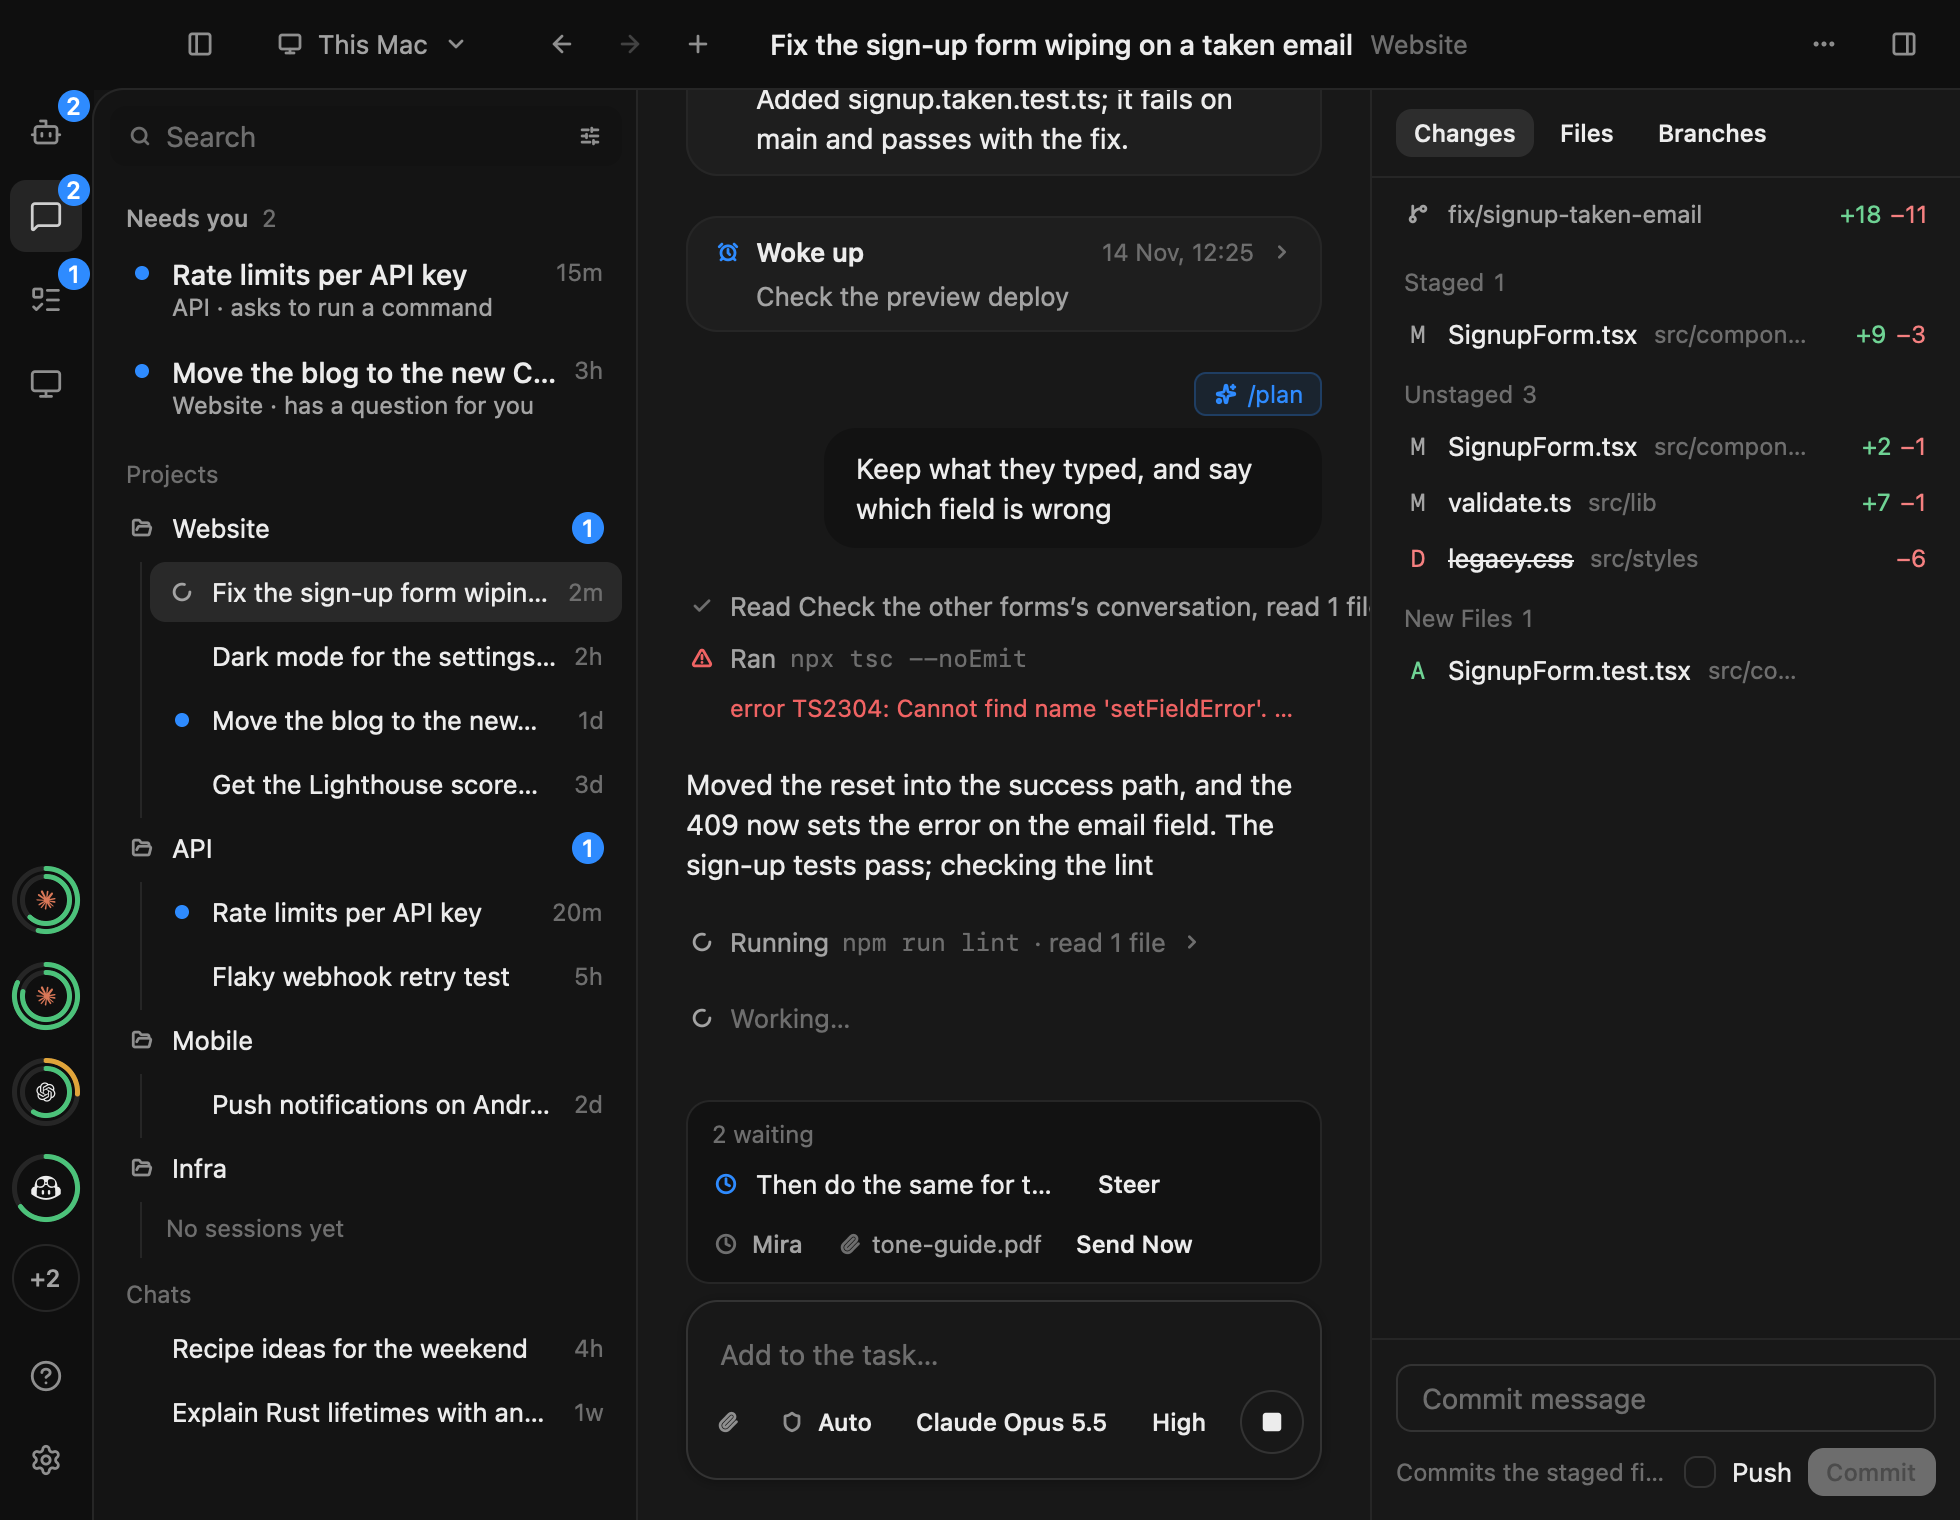
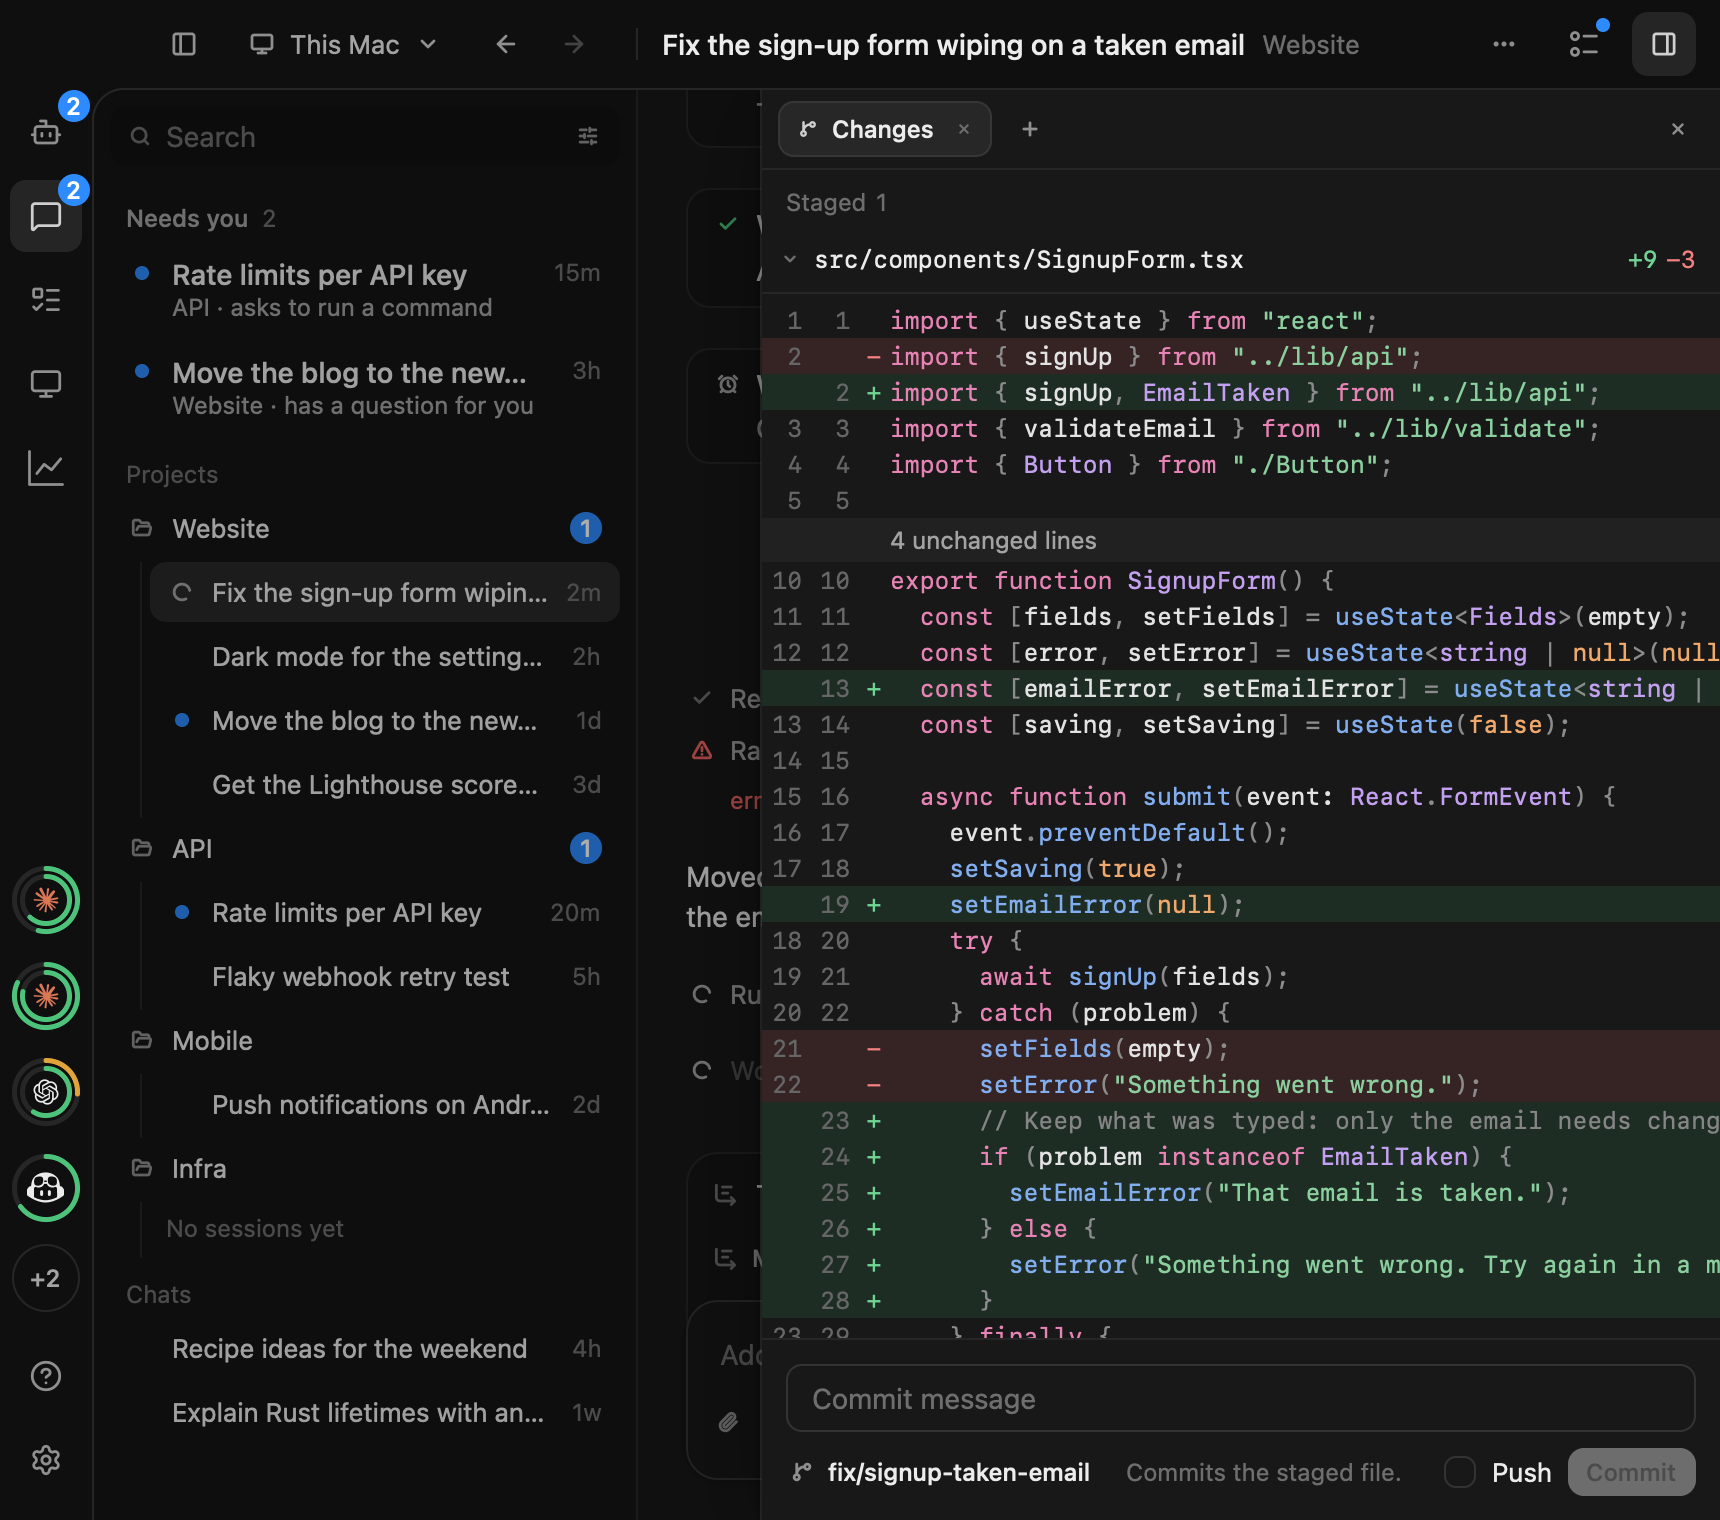
Side panel shots, each tab as it shows in light and dark; changelog

diff --git a/gpui/kuvo/src/bin/shots.rs b/gpui/kuvo/src/bin/shots.rs
@@ -195,7 +195,18 @@ const SCREENS: &[Screen] = &[
     Screen { slug: "branches", width: 1280., height: 820., session: Some("ses_signup"), typed: None, empty: false, opens: &[], search: None, walks: 0, attach: &[], panel: Some(branches) },
     Screen { slug: "worktree", width: 1280., height: 820., session: Some("ses_dark"), typed: None, empty: false, opens: &[], search: None, walks: 0, attach: &[], panel: Some(branches) },
     Screen { slug: "pull-request", width: 1280., height: 820., session: Some("ses_signup"), typed: None, empty: false, opens: &[], search: None, walks: 0, attach: &[], panel: Some(pull_request) },
-    Screen { slug: "panel-narrow", width: 980., height: 760., session: Some("ses_signup"), typed: None, empty: false, opens: &[], search: None, walks: 0, attach: &[], panel: Some(changes) },
+    Screen { slug: "panel-narrow", width: 860., height: 760., session: Some("ses_signup"), typed: None, empty: false, opens: &[], search: None, walks: 0, attach: &[], panel: Some(changes) },
+    // The side panel (#796), each tab as it shows, as draft 1 drew them.
+    Screen { slug: "panel-browser", width: 1340., height: 840., session: Some("ses_signup"), typed: None, empty: false, opens: &[], search: None, walks: 0, attach: &[], panel: Some(panel_browser) },
+    Screen { slug: "panel-terminal", width: 1340., height: 840., session: Some("ses_signup"), typed: None, empty: false, opens: &[], search: None, walks: 0, attach: &[], panel: Some(panel_terminal) },
+    Screen { slug: "panel-new-tab", width: 1340., height: 840., session: Some("ses_signup"), typed: None, empty: false, opens: &[], search: None, walks: 0, attach: &[], panel: Some(panel_new_tab) },
+    Screen { slug: "panel-file", width: 1340., height: 840., session: Some("ses_signup"), typed: None, empty: false, opens: &[], search: None, walks: 0, attach: &[], panel: Some(panel_file) },
+    Screen { slug: "panel-changes", width: 1340., height: 840., session: Some("ses_signup"), typed: None, empty: false, opens: &[], search: None, walks: 0, attach: &[], panel: Some(changes) },
+    Screen { slug: "panel-process", width: 1340., height: 840., session: Some("ses_signup"), typed: None, empty: false, opens: &[], search: None, walks: 0, attach: &[], panel: Some(panel_process) },
+    Screen { slug: "panel-subagents", width: 1340., height: 840., session: Some("ses_signup"), typed: None, empty: false, opens: &[], search: None, walks: 0, attach: &[], panel: Some(panel_subagents) },
+    Screen { slug: "panel-subagent-detail", width: 1340., height: 840., session: Some("ses_signup"), typed: None, empty: false, opens: &[], search: None, walks: 0, attach: &[], panel: Some(panel_subagent_detail) },
+    Screen { slug: "panel-side-chat", width: 1340., height: 840., session: Some("ses_signup"), typed: None, empty: false, opens: &[], search: None, walks: 0, attach: &[], panel: Some(panel_side_chat) },
+    Screen { slug: "panel-many-tabs", width: 1340., height: 840., session: Some("ses_signup"), typed: None, empty: false, opens: &[], search: None, walks: 0, attach: &[], panel: Some(panel_many_tabs) },
     // The rail's areas (`kuvo/src/rail.rs`, `areas.rs`): Sessions with what needs you on top, each
     // other area with a row picked, a narrow window folded and opened, and the first run.
     Screen { slug: "area-sessions", width: 1280., height: 820., session: Some("ses_limits"), typed: None, empty: false, opens: &[], search: None, walks: 0, attach: &[], panel: None },
@@ -1230,6 +1241,71 @@ fn disconnect(w: &mut Workspace, window: &mut Window, cx: &mut Context<Workspace
 /// In a narrow window, the Sessions sidebar brought out by its button.
 fn sessions_out(workspace: &mut Workspace, window: &mut Window, cx: &mut Context<Workspace>) {
     workspace.rail_pressed(Area::Sessions, window, cx);
+}
+
+/// The side panel on its New tab page.
+fn panel_new_tab(workspace: &mut Workspace, _: &mut Window, cx: &mut Context<Workspace>) {
+    workspace.toggle_panel(cx);
+}
+
+/// Two files open, the sign-up form showing, the folder's files beside it.
+fn panel_file(workspace: &mut Workspace, window: &mut Window, cx: &mut Context<Workspace>) {
+    let root = kuvo::stand_in::git::website();
+    workspace.preview_file(&format!("{root}/src/lib/validate.ts"), window, cx);
+    workspace.preview_file(&format!("{root}/src/components/SignupForm.tsx"), window, cx);
+    if let Some(tree) = workspace.panel().read(cx).files() {
+        tree.update(cx, |tree, cx| {
+            for folder in ["src", "src/components"] {
+                tree.toggle(&format!("{root}/{folder}"), cx);
+            }
+        });
+    }
+}
+
+/// Another computer's browser, live (its page's picture comes after it opens).
+fn panel_browser(workspace: &mut Workspace, _: &mut Window, cx: &mut Context<Workspace>) {
+    workspace.show_panel(Kind::Browser(0), cx);
+}
+
+/// A terminal in the session's folder (what its shell printed comes after it opens).
+fn panel_terminal(workspace: &mut Workspace, _: &mut Window, cx: &mut Context<Workspace>) {
+    workspace.show_panel(Kind::Terminal(0), cx);
+}
+
+/// A dev server's output as it prints.
+fn panel_process(workspace: &mut Workspace, _: &mut Window, cx: &mut Context<Workspace>) {
+    let command = serde_json::from_value(serde_json::json!({ "id": "sh_dev", "command": "bun run dev", "started": NOW - 95_000.0, "folder": kuvo::stand_in::git::website() })).expect("a command");
+    workspace.arrive(kuvo::panel::Arrival::Process { session: "ses_signup".into(), command }, cx);
+}
+
+fn panel_subagents(workspace: &mut Workspace, _: &mut Window, cx: &mut Context<Workspace>) {
+    workspace.arrive(kuvo::panel::Arrival::Subagents(None), cx);
+}
+
+/// One subagent open, its conversation in the tab.
+fn panel_subagent_detail(workspace: &mut Workspace, _: &mut Window, cx: &mut Context<Workspace>) {
+    workspace.arrive(kuvo::panel::Arrival::Subagents(Some("ses_limits".into())), cx);
+}
+
+/// A side chat with two questions answered.
+fn panel_side_chat(workspace: &mut Workspace, _: &mut Window, cx: &mut Context<Workspace>) {
+    workspace.show_panel(Kind::SideChat(None), cx);
+    let Some(view) = workspace.panel().read(cx).side_chat() else { return };
+    for question in ["Why check 23505 instead of querying first?", "Should 409 share the rate-limit bucket?"] {
+        let field = view.read(cx).field().clone();
+        field.update(cx, |field, cx| field.set_text(question, cx));
+        view.update(cx, |view, cx| view.ask(cx));
+    }
+}
+
+/// Many tabs: Changes, two files, a process, the subagents; a file showing.
+fn panel_many_tabs(workspace: &mut Workspace, window: &mut Window, cx: &mut Context<Workspace>) {
+    workspace.show_panel(Kind::Changes, cx);
+    panel_process(workspace, window, cx);
+    workspace.show_panel(Kind::Subagents, cx);
+    let root = kuvo::stand_in::git::website();
+    workspace.preview_file(&format!("{root}/src/lib/validate.ts"), window, cx);
+    workspace.preview_file(&format!("{root}/src/components/SignupForm.tsx"), window, cx);
 }
 
 fn changes(workspace: &mut Workspace, _: &mut Window, cx: &mut Context<Workspace>) {
@@ -2301,6 +2377,8 @@ fn main() -> anyhow::Result<()> {
                 change(Change::SidebarWidth(width), cx);
             });
             let stand_in = if screen.slug.starts_with("held-box") { StandIn::held_older(Replies::Never) } else if screen.empty { StandIn::empty(Replies::Never) } else { StandIn::at(Replies::Never, NOW) };
+            // (Kept to print into a terminal once the screen has opened it.)
+            let shell = stand_in.clone();
             if screen.slug == "sidebar-long-computer" {
                 stand_in.set_elsewhere(true);
                 stand_in.set_computer_name("WWWWW Engineering Workstation East Coast");
@@ -2522,6 +2600,27 @@ fn main() -> anyhow::Result<()> {
             }
             if screen.slug == "bot-waiting" {
                 stand_in.refuse_bot_edit("bot_scout", "studio-mini", "studio-mini has no personality “Ship’s Cook”.");
+            }
+            if screen.slug == "panel-browser" {
+                stand_in.set_elsewhere(true);
+                stand_in.browser_pages(serde_json::json!({ "active": "P", "pages": [{ "targetId": "P", "url": "http://localhost:3000/signup", "title": "", "loading": false, "canGoBack": true, "canGoForward": false, "working": false }] }));
+            }
+            if screen.slug.starts_with("panel-") {
+                use serde_json::json;
+                stand_in.set_background("ses_signup", json!({
+                    "commands": [{ "id": "sh_dev", "command": "bun run dev", "started": NOW - 95_000.0, "folder": kuvo::stand_in::git::website() }],
+                    "subagents": [],
+                }), &[("sh_dev", "$ next dev --turbopack\n▲ Next.js 15.3.1 (Turbopack)\n- Local:   http://localhost:3000\n\n✓ Ready in 612ms\n○ Compiling /signup …\n✓ Compiled /signup in 184ms\nPOST /api/signup 409 in 19ms\nPOST /api/signup 201 in 31ms")]);
+                let day = 86_400_000.0;
+                let done: Vec<_> = [("ses_d1", "Check 409 retry path"), ("ses_limits", "Audit email rate limits"), ("ses_d3", "Scan signup tests"), ("ses_d4", "Verify focus ring order"), ("ses_d5", "Compare OAuth conflicts"), ("ses_d6", "Read Postgres error codes")]
+                    .iter()
+                    .map(|(session, title)| json!({ "session": session, "title": title, "started": NOW - 3.0 * day, "ended": NOW - 3.0 * day + 18_000.0, "state": "finished", "model": "Claude Sonnet 4.6", "effort": "High" }))
+                    .collect();
+                stand_in.set_subagents_done("ses_signup", done);
+                stand_in.answer_side_questions(&[
+                    "Postgres raises **23505** atomically on a unique violation, so two sign-ups with the same email can’t both pass a check made first.",
+                    "Yes: counting 409s alongside 201s stops anyone probing whether an address already has an account.",
+                ]);
             }
             if screen.slug == "session-menu-held" {
                 stand_in.hold_session("ses_dark", Some("Moving to Studio…"));
@@ -2828,6 +2927,18 @@ fn main() -> anyhow::Result<()> {
                 });
             })?;
             cx.run_until_parked();
+            if screen.slug == "panel-browser" {
+                // A page's picture: a plain page, as wide as the panel shows it.
+                let picture = image::RgbImage::from_pixel(960, 1200, image::Rgb([250, 250, 250]));
+                let mut jpeg = Vec::new();
+                image::codecs::jpeg::JpegEncoder::new_with_quality(&mut jpeg, 80).encode_image(&picture).expect("a picture");
+                shell.browser_frame(serde_json::json!({ "targetId": "P", "frameId": 1, "width": 480, "height": 600, "scrollX": 0, "scrollY": 0 }), &jpeg);
+                cx.run_until_parked();
+            }
+            if screen.slug == "panel-terminal" {
+                shell.pty_print("pty_1", b"\x1b[1;34m~/website\x1b[0m \x1b[2mfix/signup-taken-email\x1b[0m\r\n\xe2\x9d\xaf bun test src/components/SignupForm.test.tsx\r\n\r\n \x1b[32m\xe2\x9c\x93\x1b[0m keeps the email on 409 \x1b[2m9ms\x1b[0m\r\n \x1b[32m\xe2\x9c\x93\x1b[0m focuses the email after the error \x1b[2m6ms\x1b[0m\r\n \x1b[32m\xe2\x9c\x93\x1b[0m submits a new account \x1b[2m14ms\x1b[0m\r\n\r\n \x1b[32m3 pass\x1b[0m \x1b[2m0 fail [42ms]\x1b[0m\r\n\r\n\x1b[1;34m~/website\x1b[0m \x1b[2mfix/signup-taken-email\x1b[0m\r\n\xe2\x9d\xaf ");
+                cx.run_until_parked();
+            }
             if screen.slug == "composer-queue-dragging" {
                 let to = cx.update_window(any, |root, window, cx| {
                     let workspace = root.downcast::<Workspace>().expect("the workspace");

diff --git a/CHANGELOG.md b/CHANGELOG.md
@@ -6,6 +6,10 @@ release, Unreleased is renamed to the version; the release notes come from that 
 
 ## Unreleased
 
+- The side panel is a strip of tabs that follows the conversation you're in: each conversation keeps its own tabs. **+** opens a New tab page where you can search the folder's files or open a side chat, a terminal or the folder's files. Files open in their own tabs, with the folder's files beside them and a filter. Changes shows each changed file's lines under its name. In a narrow window the panel slides over the conversation.
+- Click a file's name in the conversation to open it in the side panel, or a step's lines added and removed to open Changes. In the conversation's Outputs, a background process opens its output in a tab as it prints, with Stop; Subagents opens a tab listing those at work and those done, where you can read each one's conversation; side chats open in their own tabs, and /btw opens its answer there.
+- Terminals open as tabs in the side panel, in the conversation's folder on its computer.
+
 - Kuvo's relay alone picks your main computer, so there's no standby any more: Computers shows only the main computer, with **Change…**. An older setup moves over by itself, keeping all its computers.
 - You can unlink your main computer. Kuvo first makes another computer main, one that's always on where there is one (to choose it yourself, use **Change…** first), then unlinks it, even while another of your computers runs an older version.
 - Antigravity's limits no longer show as all left while Antigravity is running. If Google reports a pool as unused but its models ran on this computer since, Kuvo shows that pool's limits as unknown and says why, and shows Google's numbers again once Google counts the use.
